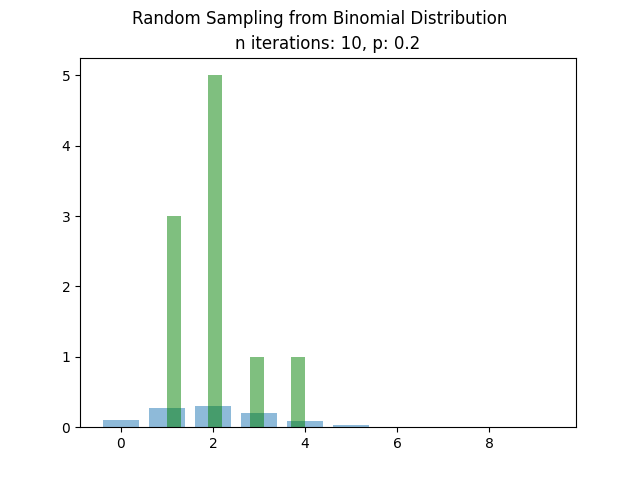
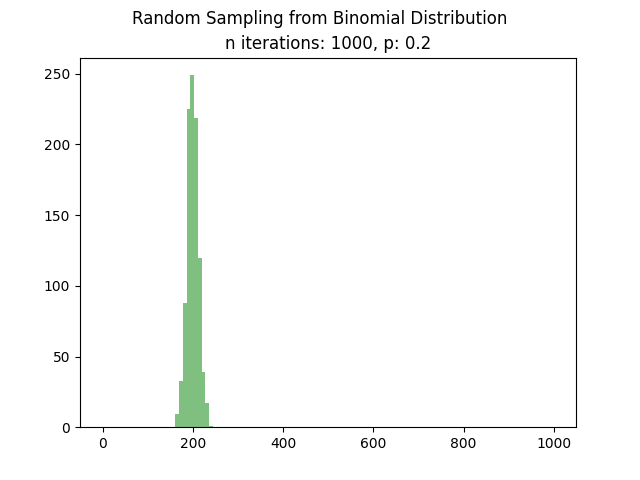
added figures for random sampling

diff --git a/RandomSampling/sampling_random.py b/RandomSampling/sampling_random.py
@@ -13,6 +13,7 @@ import scipy.stats as st
 
 
 def PoissonGen1(mu):
+    # draws a random value from a Poisson distribution
     k=-1
     s = 1
     q = np.exp(-mu)
@@ -23,6 +24,7 @@ def PoissonGen1(mu):
     return k
 
 def BinomialGen1(n, p):
+    # draws a random value from a Poisson distribution
     m = 0
     for i in range(n):
         r = np.random.rand()
@@ -30,11 +32,10 @@ def BinomialGen1(n, p):
             m = m+1
     return m
 
-iterations = 10
-
-# BINOMIAL DISTRIBUTION
+iterations = 1000
 
 
+# EXAMPLE OF SAMPLING FROM BINOMIAL DISTRIBUTION
 binomial_seq = np.zeros(iterations)
 n = iterations
 p = .2
@@ -53,8 +54,10 @@ plt.title(f'n iterations: {iterations}, p: {p}')
 plt.savefig('binomial_dist.png')
 print("Salvato plot binomial_dist.png\n")
 
-# POISSON DISTRIBUTION 
 
+
+
+# EXAMPLE OF SAMPLING FROM POISSON DISTRIBUTION
 
 poisson_seq = np.zeros(iterations)
 mu = .9
